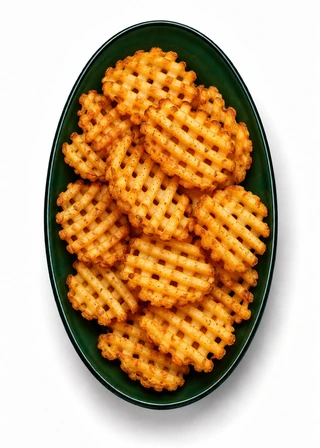
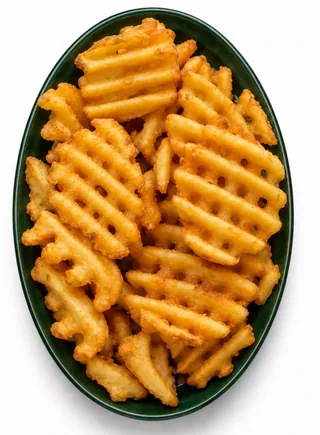
Use approved served papas rejilla image

diff --git a/app.js b/app.js
@@ -800,7 +800,7 @@
     "papa-steak": {image:"catalog/prepared/papa-steak.png",alt:"Papa Steak preparada y servida en un plato verde"},
     "papas-spices": {image:"catalog/prepared/papas-spices.png",alt:"Papas con especias preparadas y servidas en un plato verde"},
     "papas-finas-hierbas": {image:"catalog/prepared/papas-finas-hierbas.png",alt:"Papas con finas hierbas preparadas y servidas en un plato verde"},
-    "papas-rejilla": {image:"catalog/prepared/papas-rejilla.png",alt:"Papas rejilla preparadas y servidas en un plato verde"},
+    "papas-rejilla": {image:"catalog/prepared/papas-rejilla.png",alt:"Papas rejilla preparadas y servidas en un plato verde",source:"prepared"},
     "hash-brown": {image:"catalog/prepared/hash-brown.png",alt:"Hash Brown preparado y servido en un plato verde"},
     "aros-de-cebolla": {image:"catalog/prepared/aros-de-cebolla.png",alt:"Aros de cebolla preparados y servidos en un plato verde"},
     "croqueta-de-yuca": {image:"catalog/prepared/croqueta-de-yuca.png",alt:"Croquetas de yuca preparadas y servidas en un plato verde"},
